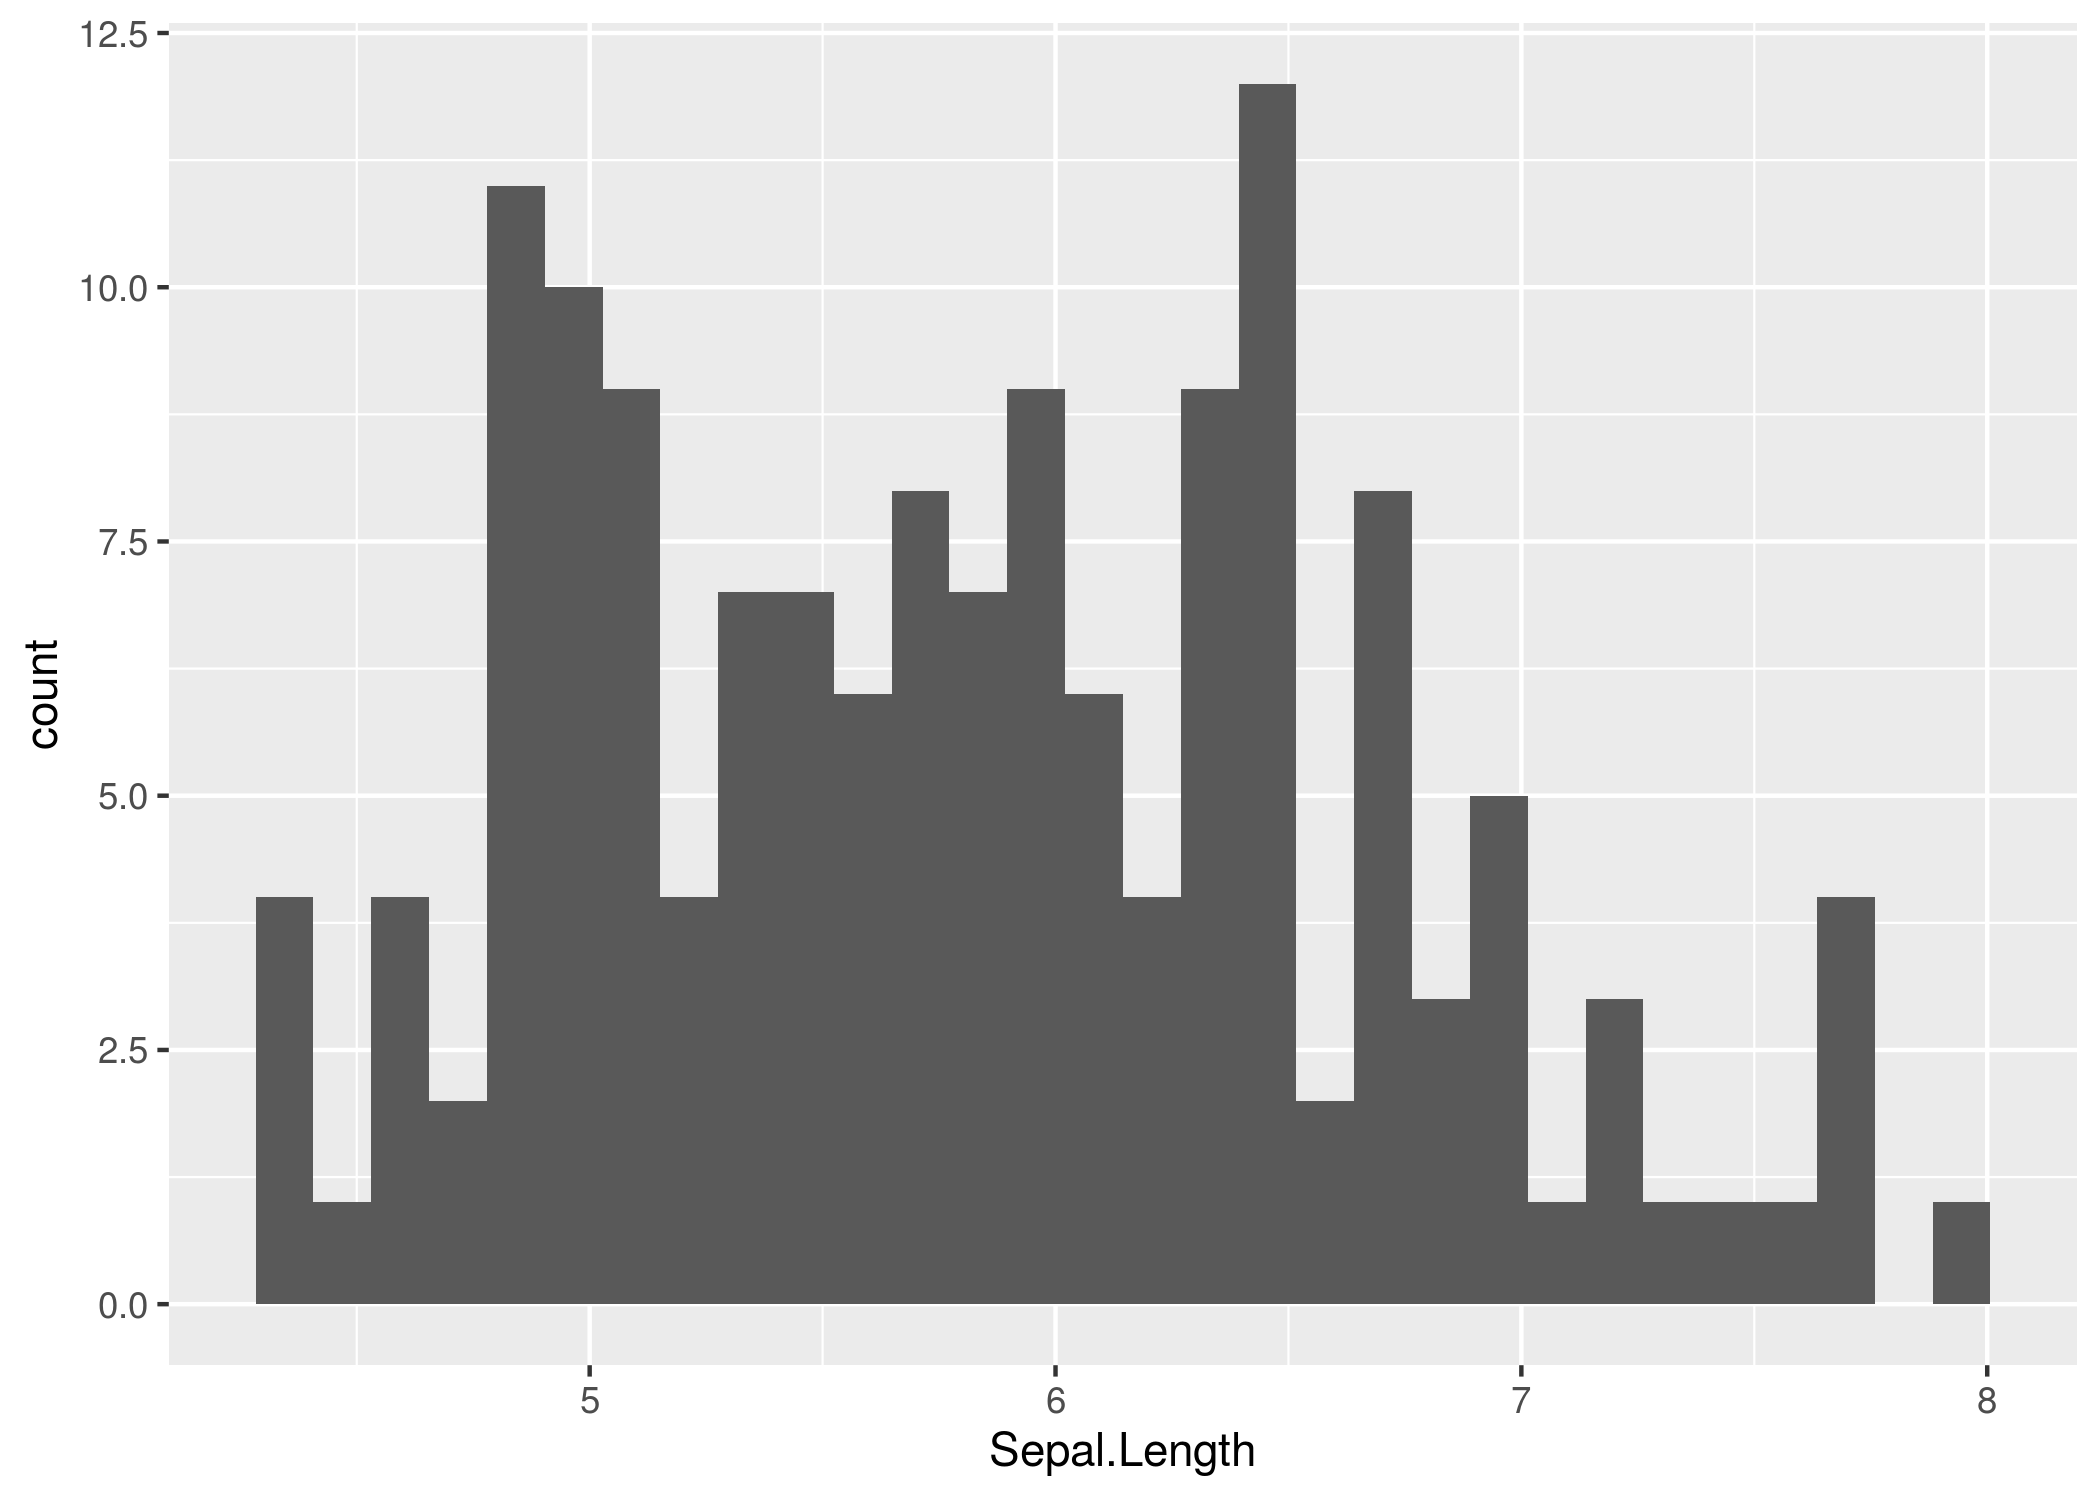
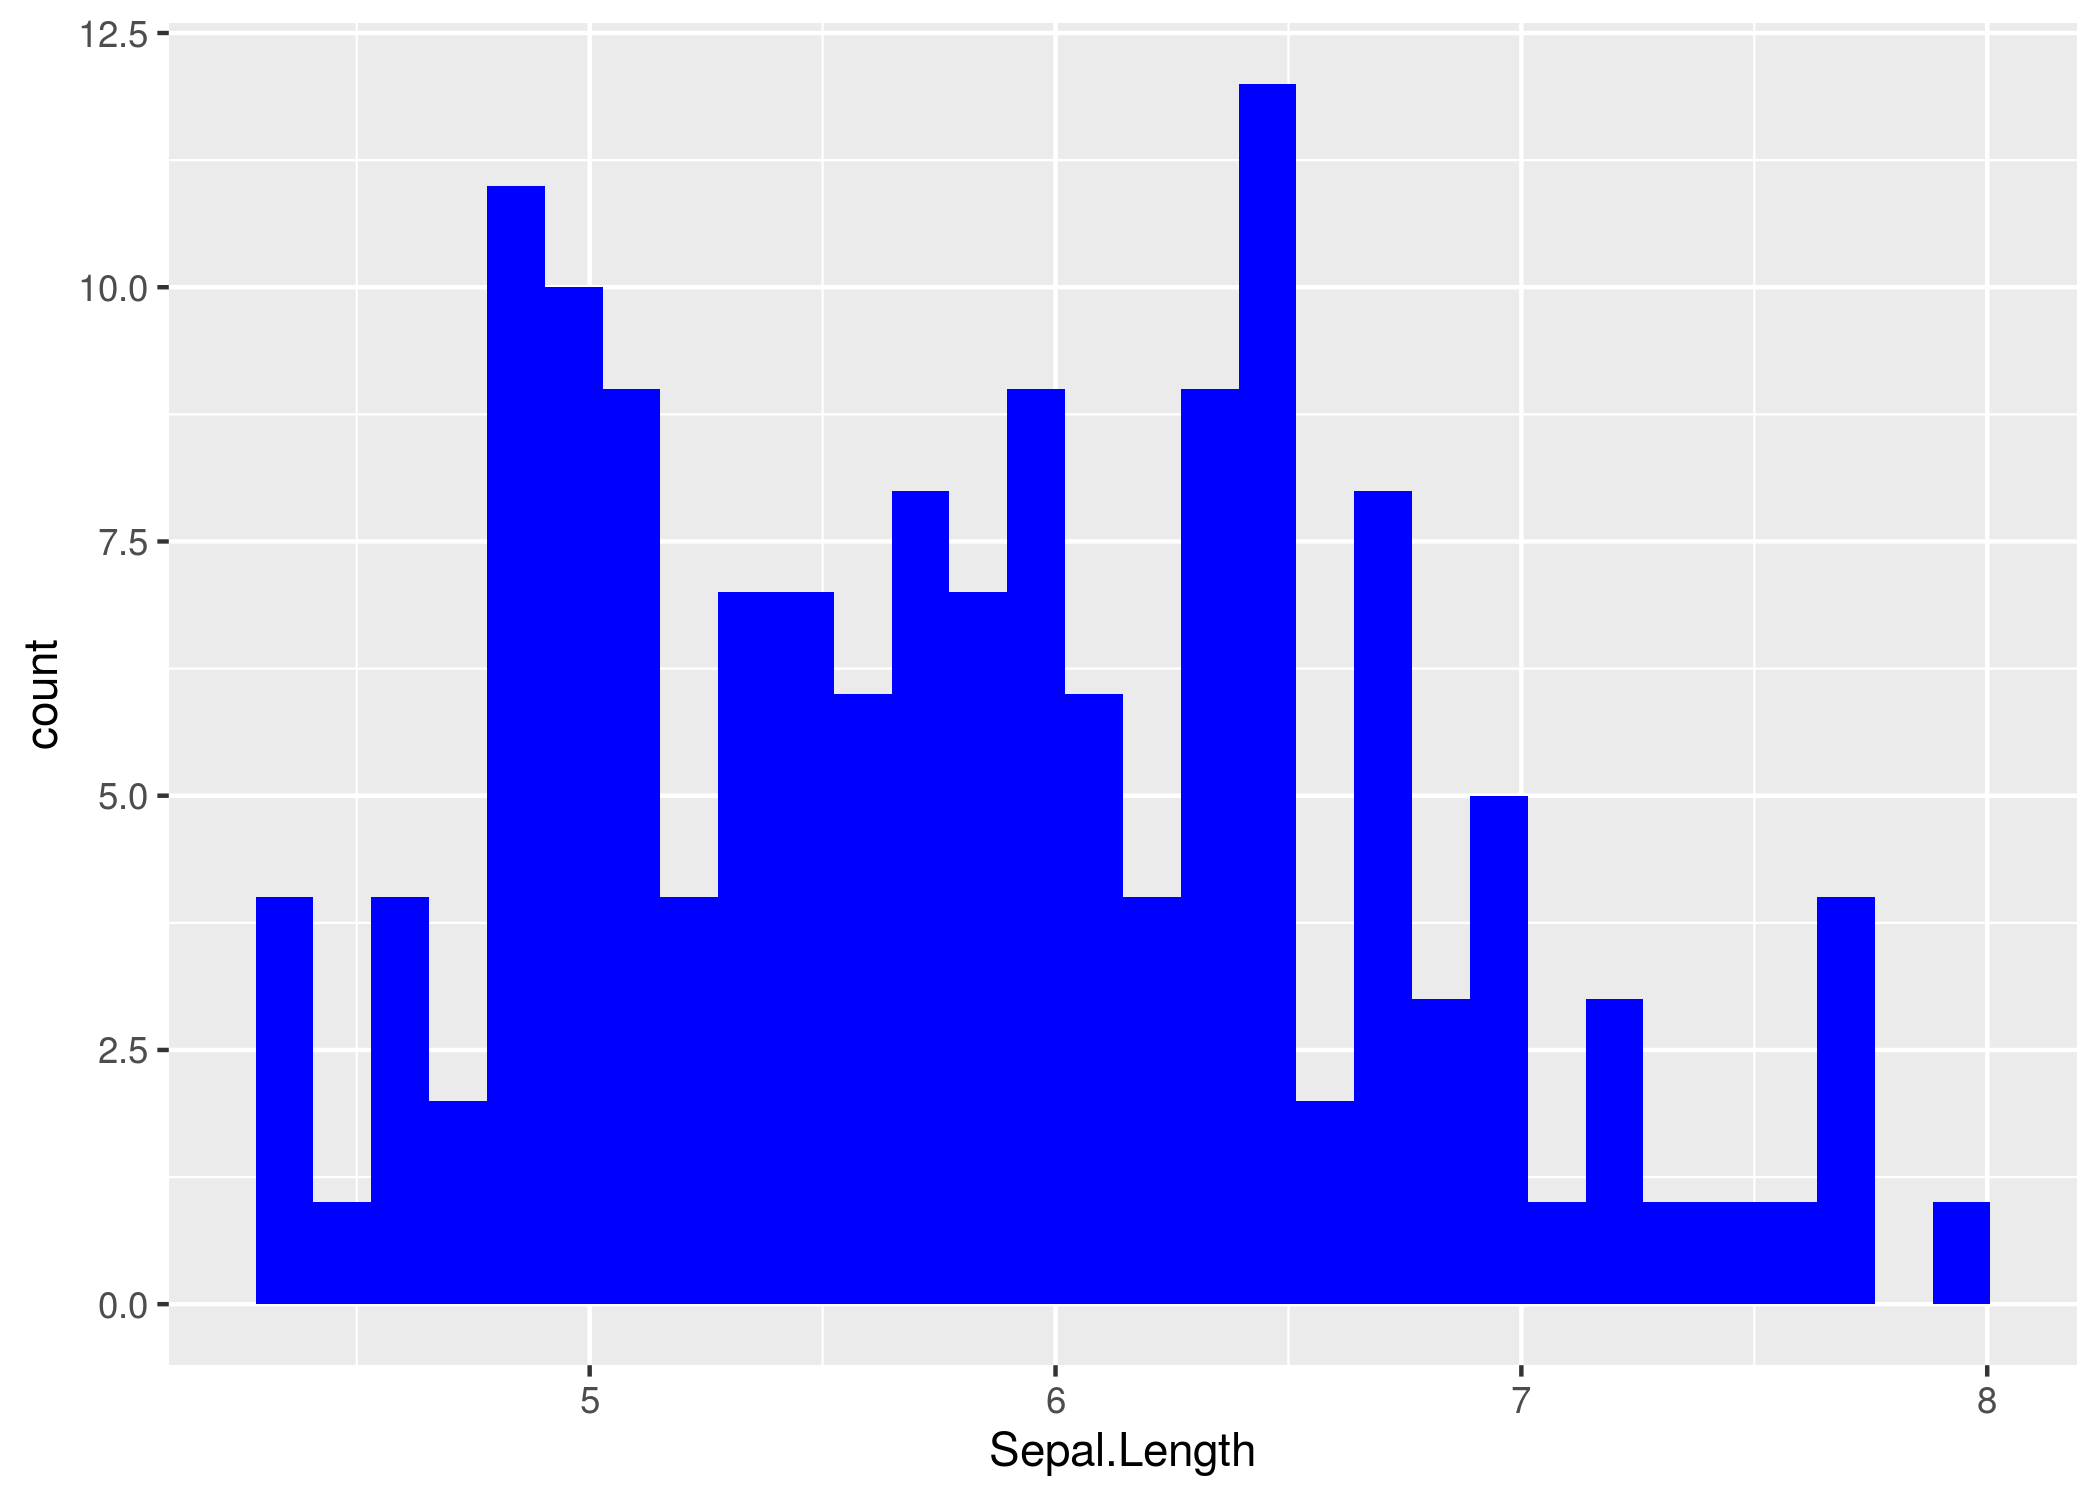
Modified plot to have blue fill

Changed region(s): [[0.1238, 0.0307, 0.9595, 0.8899]]

diff --git a/practice_plot_github.html b/practice_plot_github.html
@@ -369,7 +369,7 @@ summary {
 </div>
 
 
-<pre class="r"><code>ggplot(iris, aes(x = Sepal.Length)) + geom_histogram() -&gt; p
+<pre class="r"><code>ggplot(iris, aes(x = Sepal.Length)) + geom_histogram(fill = &quot;blue&quot;) -&gt; p
 ggsave(&quot;practice_plot.png&quot;, p)</code></pre>
 <pre><code>## Saving 7 x 5 in image</code></pre>
 <pre><code>## `stat_bin()` using `bins = 30`. Pick better value with `binwidth`.</code></pre>
